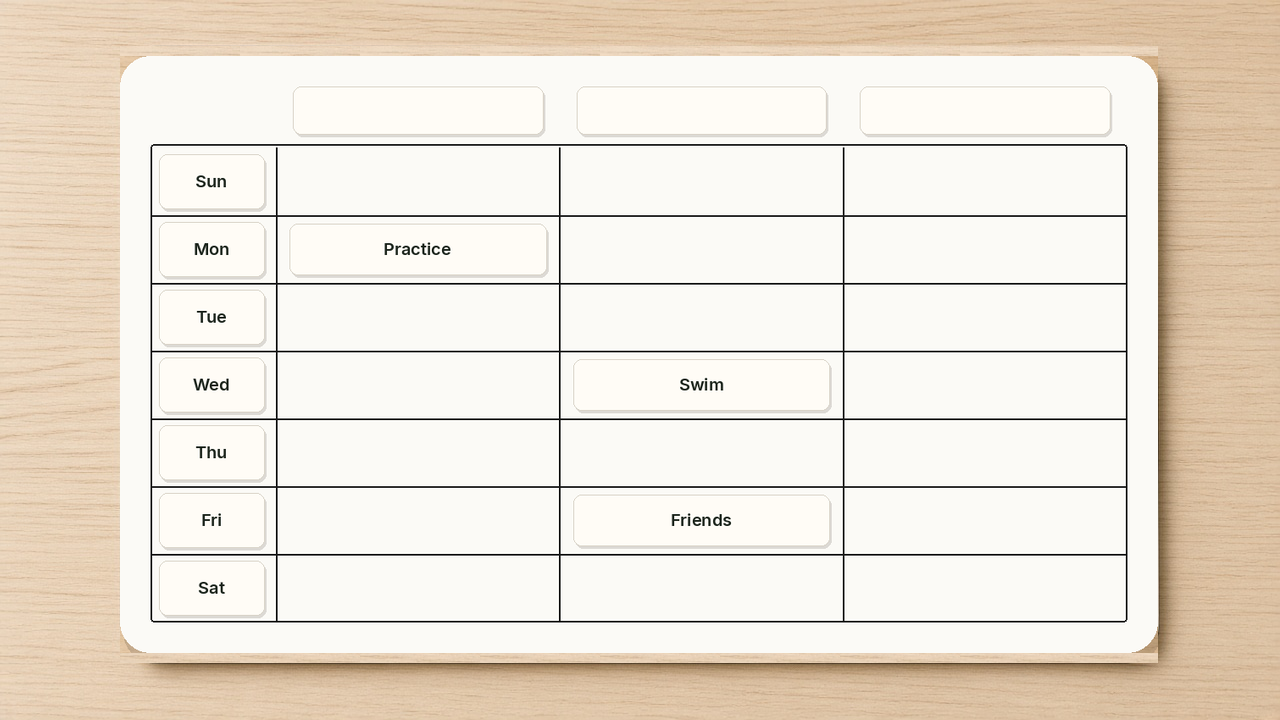
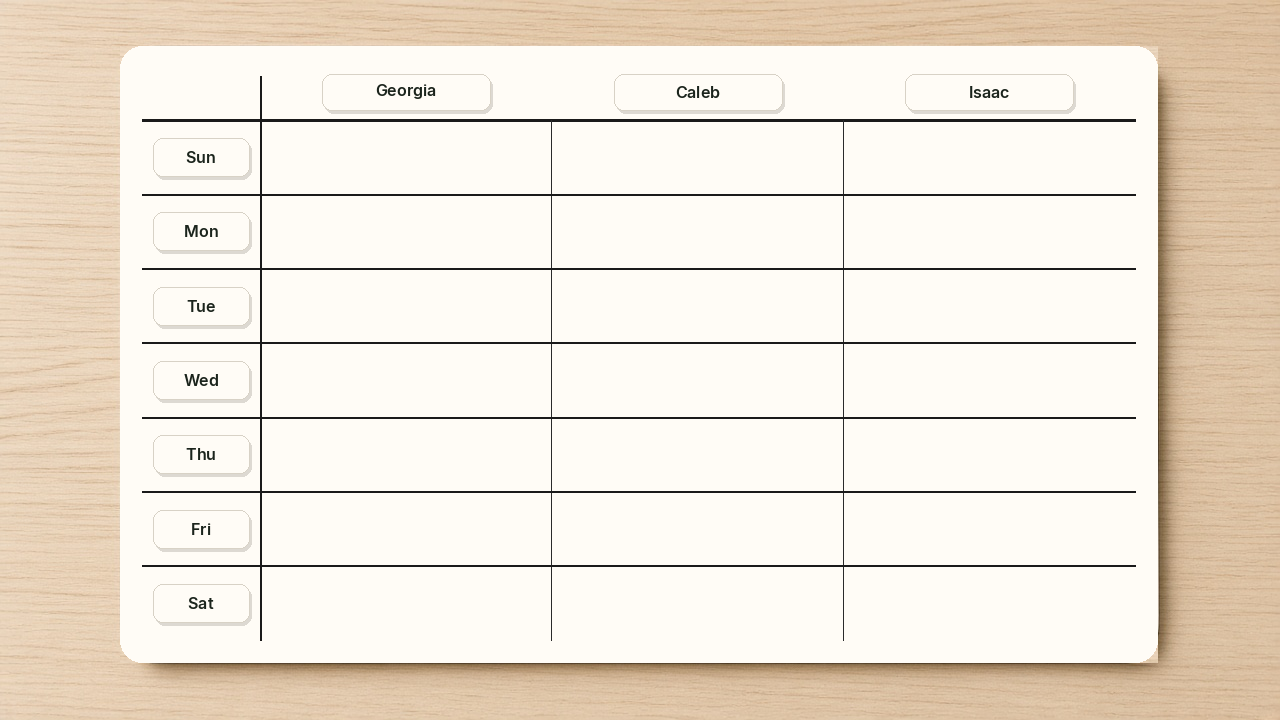
House Rules heading, Shopping rename, Weekly names, no Routines people (#57)
* Match House Rules heading, rename Shopping, and fill Weekly names

House Rules uses the same bold serif as Shopping. The product is Shopping on the card, detail page, and cart. Weekly swaps photos for 2–5 people with Georgia, Caleb, and Isaac as thin tiles and empty write-in cells. Routines no longer has a People picker. Footer text is removed. Cache 2.62.

* Hide the empty site footer so no leftover line remains

---------

Changed region(s): [[0.0938, 0.0611, 0.9062, 0.9472], [0.6562, 0.2444, 0.6875, 0.3056], [0.875, 0.2444, 0.9062, 0.275]]

diff --git a/shopping-list.html b/shopping-list.html
@@ -4,27 +4,27 @@
   <meta charset="utf-8">
   <meta name="viewport" content="width=device-width, initial-scale=1">
   <link rel="icon" href="favicon.svg" type="image/svg+xml">
-  <title>Shopping List — FamilyBoards</title>
-  <meta name="description" content="Thin magnetic Shopping List: header plus empty pen write-in lines.">
+  <title>Shopping — FamilyBoards</title>
+  <meta name="description" content="Thin magnetic Shopping sheet: header plus empty pen write-in lines.">
   <link rel="preconnect" href="https://fonts.googleapis.com">
   <link rel="preconnect" href="https://fonts.gstatic.com" crossorigin>
   <link href="https://fonts.googleapis.com/css2?family=DM+Sans:ital,opsz,wght@0,9..40,500;0,9..40,600;0,9..40,700;1,9..40,500&family=Fraunces:opsz,wght@9..144,600&family=Nunito+Sans:wght@500;700;800&display=swap" rel="stylesheet">
-  <link rel="stylesheet" href="css/styles.css?v=2.61">
+  <link rel="stylesheet" href="css/styles.css?v=2.62">
 </head>
 <body>
   <div id="site-header"></div>
   <main class="wrap product product-photo" data-sku="shopping-list-board">
     <div>
-      <div id="hero-stage" class="board-stage photo-stage mount-magnetic size-a5" role="region" aria-label="Shopping List on light wood.">
+      <div id="hero-stage" class="board-stage photo-stage mount-magnetic size-a5" role="region" aria-label="Shopping on light wood.">
         <figure id="board-hero" class="hero-photo-frame board-a5 mount-magnetic">
-          <img src="images/shopping-list-hero.png" width="1280" height="720" alt="Thin white magnetic shopping-list sheet on light wood. Shopping List title and empty write-in lines only.">
+          <img src="images/shopping-list-hero.png" width="1280" height="720" alt="Thin white magnetic shopping sheet on light wood. Shopping title and empty write-in lines only.">
         </figure>
       </div>
       <p id="hero-caption">A5</p>
     </div>
     <aside class="buy-panel">
       <p class="kicker">Board</p>
-      <h1>Shopping List</h1>
+      <h1>Shopping</h1>
       <p class="muted">A5. Header plus empty write-in lines — like House Rules. Fill them in with the pen. No zone labels.</p>
 
 
@@ -38,7 +38,7 @@
   </main>
   <footer id="site-footer" class="wrap"></footer>
   <script src="js/store.js"></script>
-  <script src="js/site.js?v=2.61"></script>
+  <script src="js/site.js?v=2.62"></script>
   <script src="js/photo-board.js"></script>
 </body>
 </html>

diff --git a/weekly.html b/weekly.html
@@ -9,7 +9,7 @@
   <link rel="preconnect" href="https://fonts.googleapis.com">
   <link rel="preconnect" href="https://fonts.gstatic.com" crossorigin>
   <link href="https://fonts.googleapis.com/css2?family=DM+Sans:ital,opsz,wght@0,9..40,500;0,9..40,600;0,9..40,700;1,9..40,500&family=Fraunces:opsz,wght@9..144,600&family=Nunito+Sans:wght@500;700;800&display=swap" rel="stylesheet">
-  <link rel="stylesheet" href="css/styles.css?v=2.61">
+  <link rel="stylesheet" href="css/styles.css?v=2.62">
 </head>
 <body>
   <div id="site-header"></div>
@@ -17,7 +17,7 @@
     <div>
       <div id="hero-stage" class="board-stage photo-stage mount-magnetic size-a4" role="region" aria-label="Weekly board on light wood.">
         <figure id="board-hero" class="hero-photo-frame board-a4 mount-magnetic">
-          <img src="images/weekly-hero.png" width="1280" height="720" alt="Thin white magnetic weekly sheet on light wood, same width as the Routines picture. Sun–Sat day words as rows; empty name tiles and activity tiles in title case.">
+          <img src="images/weekly-hero.png" width="1280" height="720" alt="Thin white magnetic weekly sheet on light wood, same width as the Routines picture. Sun–Sat day tiles as rows; thin name tiles Georgia, Caleb, and Isaac across the top; empty cells for writing in with the pen.">
         </figure>
       </div>
       <p id="hero-caption">3 people · A4</p>
@@ -25,7 +25,7 @@
     <aside class="buy-panel">
       <p class="kicker">Board</p>
       <h1>Weekly</h1>
-      <p class="muted">Days as rows (Sun–Sat tiles), people as columns. Name tiles along the top; activity tiles in the cells. Empty cells are fine.</p>
+      <p class="muted">Days as rows (Sun–Sat tiles), people as columns. Name tiles along the top. Empty cells for writing in with the pen.</p>
       <fieldset id="people-field">
         <legend>People</legend>
         <div id="opt-people" class="opts" role="group" aria-label="People columns"></div>
@@ -46,7 +46,7 @@
   </main>
   <footer id="site-footer" class="wrap"></footer>
   <script src="js/store.js"></script>
-  <script src="js/site.js?v=2.61"></script>
+  <script src="js/site.js?v=2.62"></script>
   <script src="js/photo-board.js"></script>
 </body>
 </html>

diff --git a/routines.html b/routines.html
@@ -9,7 +9,7 @@
   <link rel="preconnect" href="https://fonts.googleapis.com">
   <link rel="preconnect" href="https://fonts.gstatic.com" crossorigin>
   <link href="https://fonts.googleapis.com/css2?family=DM+Sans:ital,opsz,wght@0,9..40,500;0,9..40,600;0,9..40,700;1,9..40,500&family=Fraunces:opsz,wght@9..144,600&family=Nunito+Sans:wght@500;700;800&display=swap" rel="stylesheet">
-  <link rel="stylesheet" href="css/styles.css?v=2.61">
+  <link rel="stylesheet" href="css/styles.css?v=2.62">
 </head>
 <body>
   <div id="site-header"></div>
@@ -20,7 +20,7 @@
           <img src="images/morning-hero.png" width="1280" height="720" alt="Thin white magnetic Morning board on light wood. Title Morning at the top; empty name tiles and job tiles in title case.">
         </figure>
       </div>
-      <p id="hero-caption">Morning · 3 people · A4</p>
+      <p id="hero-caption">Morning · A4</p>
     </div>
     <aside class="buy-panel">
       <p class="kicker">Board</p>
@@ -30,17 +30,13 @@
         <legend>Board</legend>
         <div id="opt-daypart" class="opts" role="group" aria-label="Morning, Afternoon, or Night"></div>
       </fieldset>
-      <fieldset id="people-field">
-        <legend>People</legend>
-        <div id="opt-people" class="opts" role="group" aria-label="People columns"></div>
-      </fieldset>
       <fieldset>
         <legend>Size</legend>
         <div id="opt-size" class="opts" role="group" aria-label="Size"></div>
       </fieldset>
 
       <div class="price-row">
-        <span id="config-now" class="muted">Morning · 3 people · A4</span>
+        <span id="config-now" class="muted">Morning · A4</span>
         <strong id="price-now">$29</strong>
       </div>
       <button class="btn" id="add-board" type="button">Add to cart</button>
@@ -49,7 +45,7 @@
   </main>
   <footer id="site-footer" class="wrap"></footer>
   <script src="js/store.js"></script>
-  <script src="js/site.js?v=2.61"></script>
+  <script src="js/site.js?v=2.62"></script>
   <script src="js/photo-board.js"></script>
 </body>
 </html>

diff --git a/index.html b/index.html
@@ -9,7 +9,7 @@
   <link rel="preconnect" href="https://fonts.googleapis.com">
   <link rel="preconnect" href="https://fonts.gstatic.com" crossorigin>
   <link href="https://fonts.googleapis.com/css2?family=DM+Sans:opsz,wght@9..40,600&family=Fraunces:opsz,wght@9..144,600&family=Nunito+Sans:wght@500;700;800&display=swap" rel="stylesheet">
-  <link rel="stylesheet" href="css/styles.css?v=2.61">
+  <link rel="stylesheet" href="css/styles.css?v=2.62">
 </head>
 <body>
   <div id="site-header"></div>
@@ -38,7 +38,7 @@
           <img src="images/weekly-hero.png" width="1280" height="720" alt="">
         </div>
         <h3>Weekly</h3>
-        <p class="muted">Days as rows, people as columns. Activity tiles in the cells.</p>
+        <p class="muted">Days as rows, people as columns. Empty cells for writing in with the pen.</p>
         <p class="price">$29</p>
       </a>
       <a class="card" href="meal-plan.html">
@@ -53,7 +53,7 @@
         <div class="thumb thumb-board" aria-hidden="true">
           <img src="images/shopping-list-hero.png" width="1280" height="720" alt="">
         </div>
-        <h3>Shopping List</h3>
+        <h3>Shopping</h3>
         <p class="muted">A5. Header plus empty write-in lines. Fill them in with the pen.</p>
         <p class="price">$19</p>
       </a>
@@ -146,6 +146,6 @@
   </main>
   <footer id="site-footer" class="wrap"></footer>
   <script src="js/store.js"></script>
-  <script src="js/site.js?v=2.61"></script>
+  <script src="js/site.js?v=2.62"></script>
 </body>
 </html>

diff --git a/js/photo-board.js b/js/photo-board.js
@@ -88,6 +88,11 @@
         img.src = current.photo;
         img.alt = current.alt;
       }
+      if (product.photosByPeople && img && state.people) {
+        img.src = product.photosByPeople[state.people] || product.photo;
+        img.alt =
+          "Thin white magnetic weekly sheet on light wood, same width as the Routines picture. Sun–Sat day tiles as rows; thin name tiles Georgia, Caleb, and Isaac across the top, with blank tiles on extra columns; empty cells for writing in with the pen.";
+      }
       if (titleEl) titleEl.textContent = displayName();
       if (blurbEl && current && current.blurb) blurbEl.textContent = current.blurb;
       if (current) document.title = current.title + " — FamilyBoards";
@@ -109,8 +114,10 @@
           "daypart"
         );
       }
+      if (peopleField) {
+        peopleField.hidden = !product.people;
+      }
       if (product.people && peopleField && optPeople) {
-        peopleField.hidden = false;
         optPeople.innerHTML = optionButtons(
           FB.PEOPLE_COUNTS,
           state.people,

diff --git a/chores.html b/chores.html
@@ -9,7 +9,7 @@
   <link rel="preconnect" href="https://fonts.googleapis.com">
   <link rel="preconnect" href="https://fonts.gstatic.com" crossorigin>
   <link href="https://fonts.googleapis.com/css2?family=DM+Sans:ital,opsz,wght@0,9..40,500;0,9..40,600;0,9..40,700;1,9..40,500&family=Fraunces:opsz,wght@9..144,600&family=Nunito+Sans:wght@500;700;800&display=swap" rel="stylesheet">
-  <link rel="stylesheet" href="css/styles.css?v=2.61">
+  <link rel="stylesheet" href="css/styles.css?v=2.62">
 </head>
 <body>
   <div id="site-header"></div>
@@ -46,7 +46,7 @@
   </main>
   <footer id="site-footer" class="wrap"></footer>
   <script src="js/store.js"></script>
-  <script src="js/site.js?v=2.61"></script>
-  <script src="js/chores.js?v=2.61"></script>
+  <script src="js/site.js?v=2.62"></script>
+  <script src="js/chores.js?v=2.62"></script>
 </body>
 </html>

diff --git a/house-rules.html b/house-rules.html
@@ -9,7 +9,7 @@
   <link rel="preconnect" href="https://fonts.googleapis.com">
   <link rel="preconnect" href="https://fonts.gstatic.com" crossorigin>
   <link href="https://fonts.googleapis.com/css2?family=DM+Sans:ital,opsz,wght@0,9..40,500;0,9..40,600;0,9..40,700;1,9..40,500&family=Fraunces:opsz,wght@9..144,600&family=Nunito+Sans:wght@500;700;800&display=swap" rel="stylesheet">
-  <link rel="stylesheet" href="css/styles.css?v=2.61">
+  <link rel="stylesheet" href="css/styles.css?v=2.62">
 </head>
 <body>
   <div id="site-header"></div>
@@ -38,7 +38,7 @@
   </main>
   <footer id="site-footer" class="wrap"></footer>
   <script src="js/store.js"></script>
-  <script src="js/site.js?v=2.61"></script>
+  <script src="js/site.js?v=2.62"></script>
   <script src="js/photo-board.js"></script>
 </body>
 </html>

diff --git a/meal-plan.html b/meal-plan.html
@@ -9,7 +9,7 @@
   <link rel="preconnect" href="https://fonts.googleapis.com">
   <link rel="preconnect" href="https://fonts.gstatic.com" crossorigin>
   <link href="https://fonts.googleapis.com/css2?family=DM+Sans:ital,opsz,wght@0,9..40,500;0,9..40,600;0,9..40,700;1,9..40,500&family=Fraunces:opsz,wght@9..144,600&family=Nunito+Sans:wght@500;700;800&display=swap" rel="stylesheet">
-  <link rel="stylesheet" href="css/styles.css?v=2.61">
+  <link rel="stylesheet" href="css/styles.css?v=2.62">
 </head>
 <body>
   <div id="site-header"></div>
@@ -38,7 +38,7 @@
   </main>
   <footer id="site-footer" class="wrap"></footer>
   <script src="js/store.js"></script>
-  <script src="js/site.js?v=2.61"></script>
+  <script src="js/site.js?v=2.62"></script>
   <script src="js/photo-board.js"></script>
 </body>
 </html>

diff --git a/js/store.js b/js/store.js
@@ -71,7 +71,7 @@
       name: "Routines",
       href: "routines.html",
       price: 29,
-      people: true,
+      people: false,
       dayparts: {
         morning: {
           title: "Morning",
@@ -99,6 +99,12 @@
       name: "Weekly",
       href: "weekly.html",
       photo: "images/weekly-hero.png",
+      photosByPeople: {
+        2: "images/weekly-hero-2.png",
+        3: "images/weekly-hero.png",
+        4: "images/weekly-hero-4.png",
+        5: "images/weekly-hero-5.png"
+      },
       price: 29,
       people: true
     },
@@ -115,7 +121,7 @@
     "shopping-list-board": {
       id: "shopping-list-board",
       kind: "board",
-      name: "Shopping List",
+      name: "Shopping",
       href: "shopping-list.html",
       photo: "images/shopping-list-hero.png",
       price: 19,

diff --git a/black-pen-pack.html b/black-pen-pack.html
@@ -9,7 +9,7 @@
   <link rel="preconnect" href="https://fonts.googleapis.com">
   <link rel="preconnect" href="https://fonts.gstatic.com" crossorigin>
   <link href="https://fonts.googleapis.com/css2?family=DM+Sans:opsz,wght@9..40,600&family=Fraunces:opsz,wght@9..144,600&family=Nunito+Sans:wght@500;700;800&display=swap" rel="stylesheet">
-  <link rel="stylesheet" href="css/styles.css?v=2.61">
+  <link rel="stylesheet" href="css/styles.css?v=2.62">
 </head>
 <body>
   <div id="site-header"></div>
@@ -34,7 +34,7 @@
   </main>
   <footer id="site-footer" class="wrap"></footer>
   <script src="js/store.js"></script>
-  <script src="js/site.js?v=2.61"></script>
+  <script src="js/site.js?v=2.62"></script>
   <script src="js/photo-pack.js"></script>
 </body>
 </html>

diff --git a/coloured-pen-pack.html b/coloured-pen-pack.html
@@ -9,7 +9,7 @@
   <link rel="preconnect" href="https://fonts.googleapis.com">
   <link rel="preconnect" href="https://fonts.gstatic.com" crossorigin>
   <link href="https://fonts.googleapis.com/css2?family=DM+Sans:opsz,wght@9..40,600&family=Fraunces:opsz,wght@9..144,600&family=Nunito+Sans:wght@500;700;800&display=swap" rel="stylesheet">
-  <link rel="stylesheet" href="css/styles.css?v=2.61">
+  <link rel="stylesheet" href="css/styles.css?v=2.62">
 </head>
 <body>
   <div id="site-header"></div>
@@ -34,7 +34,7 @@
   </main>
   <footer id="site-footer" class="wrap"></footer>
   <script src="js/store.js"></script>
-  <script src="js/site.js?v=2.61"></script>
+  <script src="js/site.js?v=2.62"></script>
   <script src="js/photo-pack.js"></script>
 </body>
 </html>

diff --git a/fridge-holder.html b/fridge-holder.html
@@ -9,7 +9,7 @@
   <link rel="preconnect" href="https://fonts.googleapis.com">
   <link rel="preconnect" href="https://fonts.gstatic.com" crossorigin>
   <link href="https://fonts.googleapis.com/css2?family=DM+Sans:opsz,wght@9..40,600&family=Fraunces:opsz,wght@9..144,600&family=Nunito+Sans:wght@500;700;800&display=swap" rel="stylesheet">
-  <link rel="stylesheet" href="css/styles.css?v=2.61">
+  <link rel="stylesheet" href="css/styles.css?v=2.62">
 </head>
 <body>
   <div id="site-header"></div>
@@ -34,7 +34,7 @@
   </main>
   <footer id="site-footer" class="wrap"></footer>
   <script src="js/store.js"></script>
-  <script src="js/site.js?v=2.61"></script>
+  <script src="js/site.js?v=2.62"></script>
   <script src="js/photo-pack.js"></script>
 </body>
 </html>
